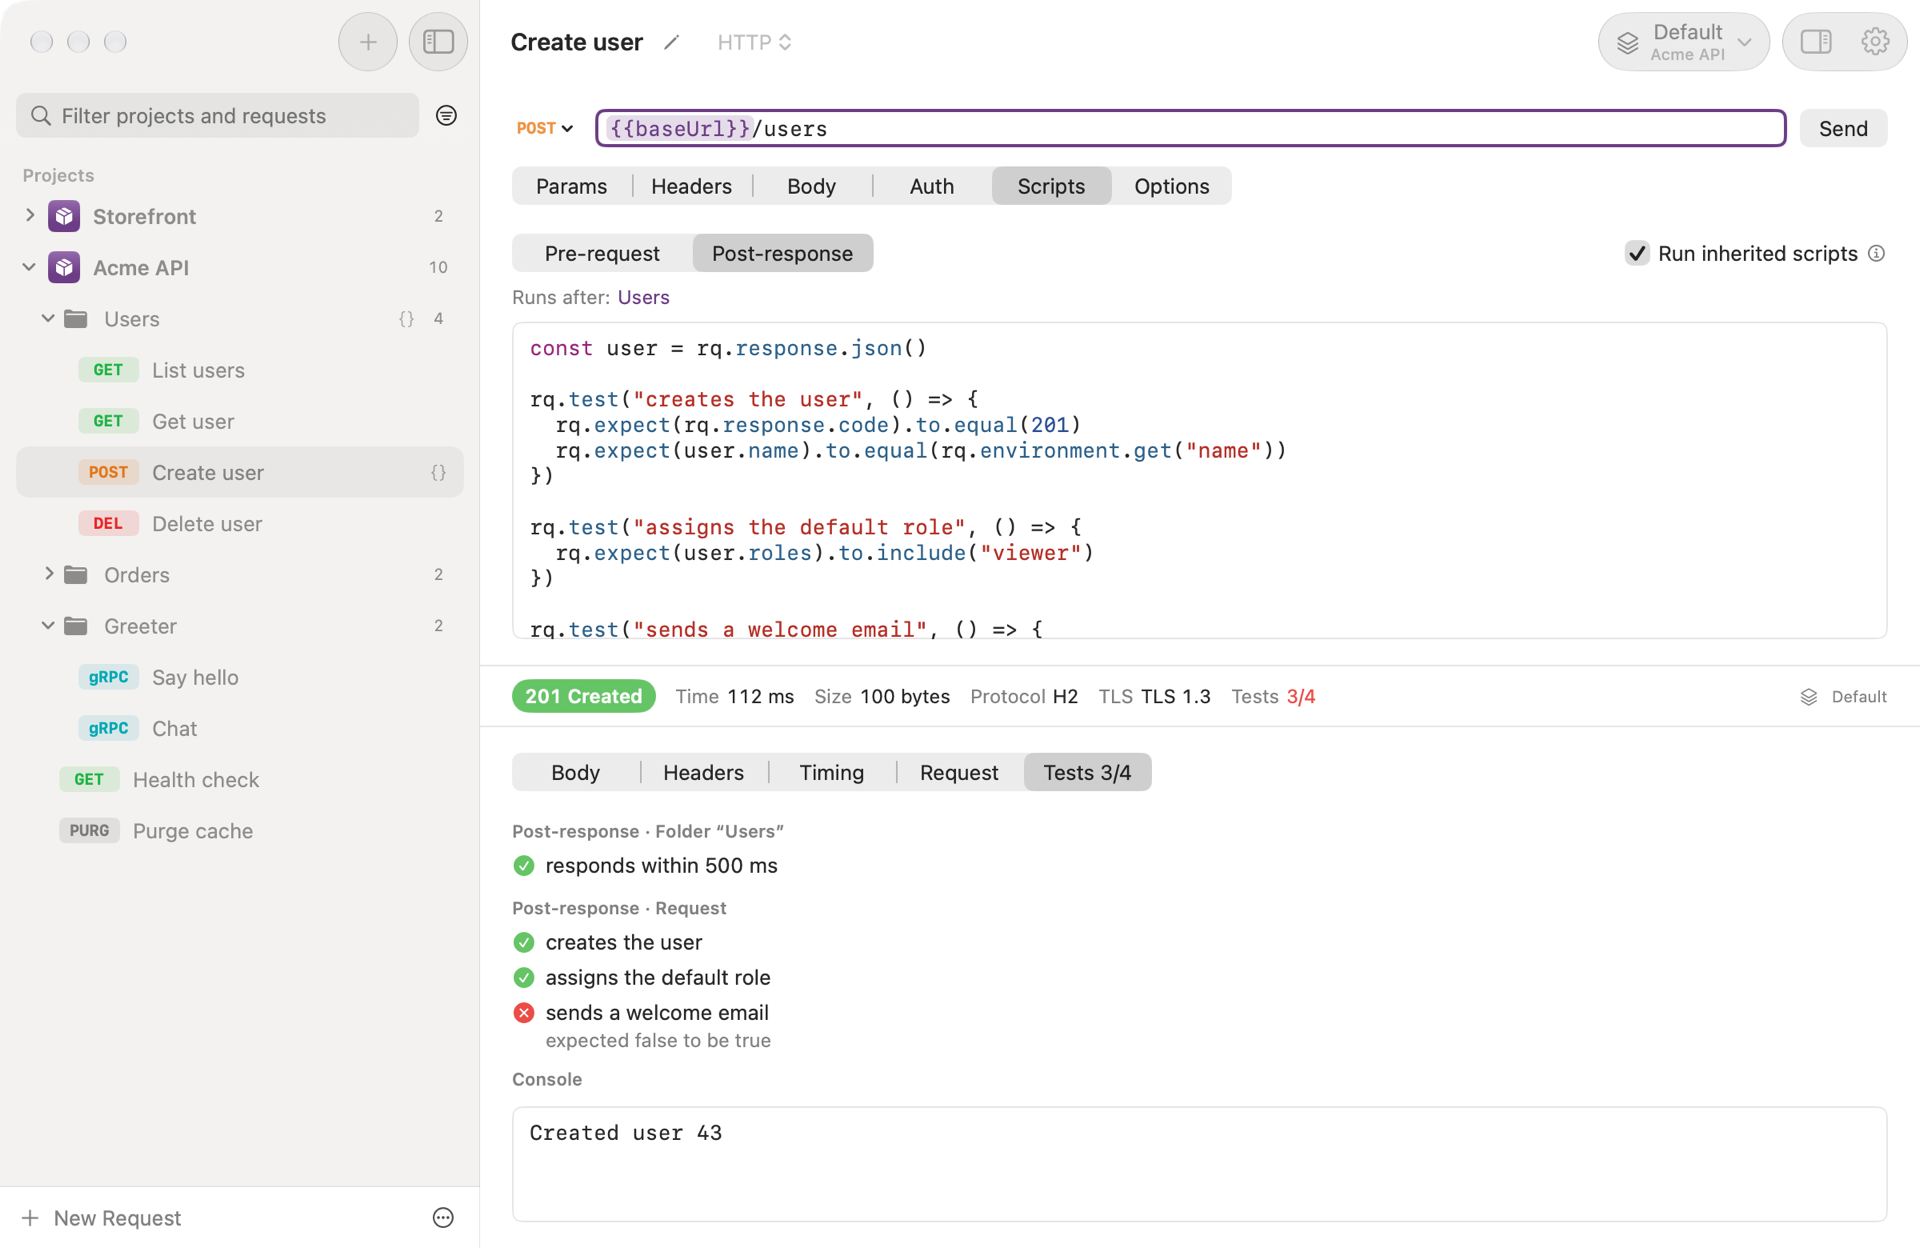
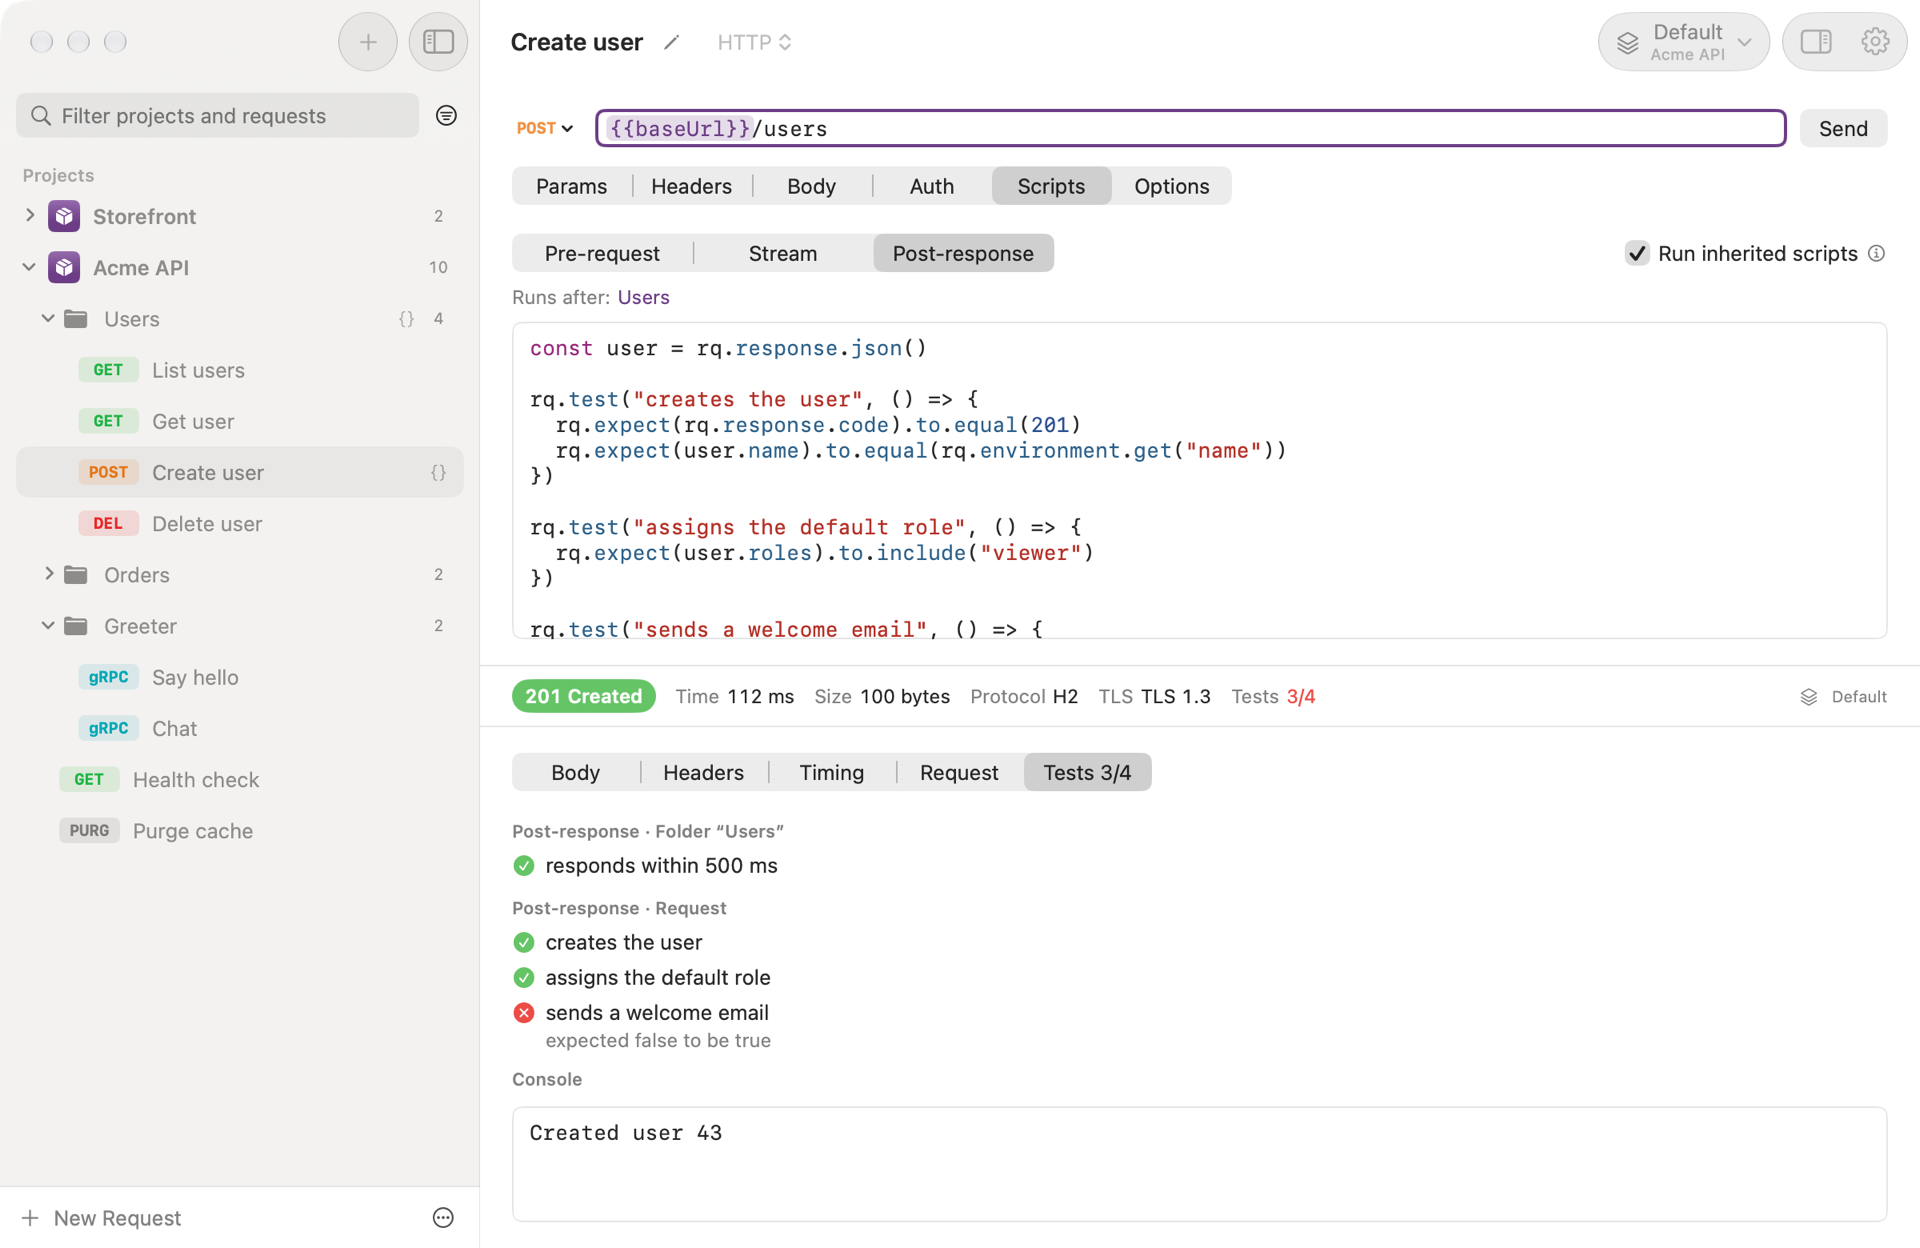
Recapture the scripts screenshots with the Stream phase and mention stream scripts
The Scripts tab now has Pre-request, Stream, and Post-response; the scripts section's copy adds handling each event or message a stream delivers and answering a server's messages.

Changed region(s): [[0.3438, 0.1875, 0.5625, 0.2188]]

diff --git a/index.html b/index.html
@@ -274,9 +274,9 @@
             <p class="chip">Scripts</p>
             <h2>Requests that sign, chain, and check themselves</h2>
             <p class="feature-copy">
-                Run JavaScript before a request and after its response, on the request, its folders, or the whole
-                project: sign it, save a login's token for the next request, and test what came back. Scripts from
-                Postman run as they are.
+                Run JavaScript before a request, on each event or message a stream delivers, and after its response,
+                on the request, its folders, or the whole project: sign it, save a login's token for the next request,
+                test what came back, and answer a server's messages. Scripts from Postman run as they are.
             </p>
             <picture>
                 <source srcset="images/scripts-dark.webp" type="image/webp" data-theme="dark"
